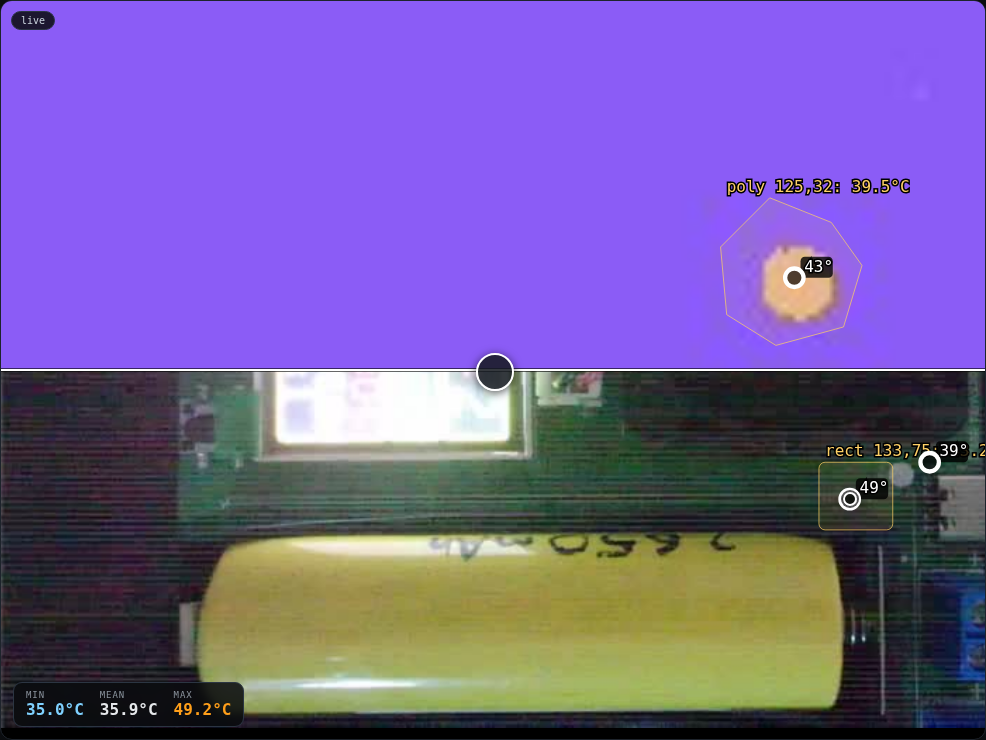
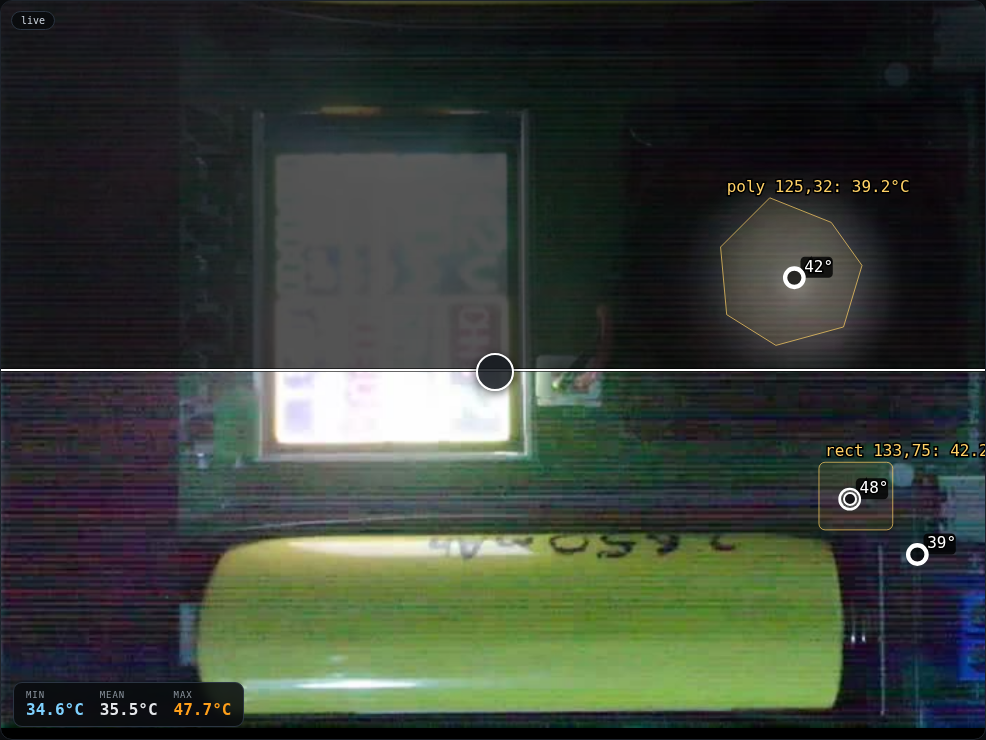
Show palettes at 70% fusion and add README screenshots
- recapture palette/wipe crops with thermal opacity 70 so both layers are visible
- each wipe crop uses a different palette
- README gets thermal/fusion/wipe screenshots; wiki explains the blend

diff --git a/wiki/Using-the-view.md b/wiki/Using-the-view.md
@@ -3,7 +3,9 @@
 ## Palettes
 
 Pick a palette in **Display → Palette**. Clip/span bands only appear for the
-non-isotherm palettes; the isotherm palette swaps them for band editing.
+non-isotherm palettes; the isotherm palette swaps them for band editing. The
+palette images below are shown in **Fusion** with thermal opacity at **70%**, so
+the thermal colours and the visible detail are both present.
 
 | Rainbow | Ironbow |
 |---|---|
@@ -25,7 +27,9 @@ Save a named profile with **Save as…**; it is applied at startup.
 ## Wipe
 
 Choose **Wipe**, pick which side is thermal, then drag the divider on the image.
-The thermal-opacity slider blends the thermal layer with the visible feed.
+The thermal-opacity slider blends the thermal layer with the visible feed. Each
+example uses a different palette: rainbow (thermal right), ironbow (thermal
+left), white-hot (thermal top), black-hot (thermal bottom).
 
 | Thermal right | Thermal left |
 |---|---|

diff --git a/README.md b/README.md
@@ -13,6 +13,12 @@ feeds, measurement, alarms, snapshots, pre-record, roles, HTTPS, i18n, and
 runtime driver hot-swap. A P3/P1 USB driver is protocol-parsed and unit-tested
 but **untested against hardware** and not yet wired to libusb/nusb.
 
+## A look at it
+
+| Thermal | Fusion (70% thermal) | Wipe |
+|---|---|---|
+| ![Thermal](docs/screenshots/thermal.png) | ![Fusion](docs/screenshots/fusion.png) | ![Wipe](docs/screenshots/wipe.png) |
+
 ## Features
 
 - **Thermal:** palette rendering, clip/span bands, isotherm bands + profiles,
